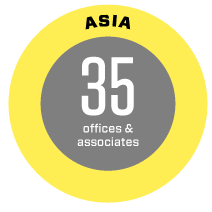
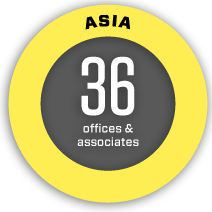
Updated global & APAC footprint

diff --git a/js/global.js b/js/global.js
@@ -3867,10 +3867,10 @@ function initLeadershipDrag(){
 				currentPos = parseInt($('.leadershipWrapper .leadershipContainer').css('left'));
 				if (direction == "left")
 				{
-					if(currentPos < -445)
+					if(currentPos < -375)
 					{
-						$('.leadershipWrapper .leadershipContainer').css('left', -452);
-						$('.leadershipDrag').css('left', 382);
+						$('.leadershipWrapper .leadershipContainer').css('left', -375);
+						$('.leadershipDrag').css('left', 313);
 					}else{
 						$('.leadershipWrapper .leadershipContainer').css('left', currentPos+distance*(speed/duration)*-1);
 						$('.leadershipDrag').css('left', (currentPos*-1)/452*382);
@@ -3895,9 +3895,9 @@ function initLeadershipDrag(){
 				if(parseInt($('.leadershipWrapper .leadershipContainer').css('left')) > 0 )
 				{
 					$('.leadershipWrapper .leadershipContainer').animate({'left':0}, 50);
-				}else if(parseInt($('.leadershipWrapper .leadershipContainer').css('left')) < -451 )
+				}else if(parseInt($('.leadershipWrapper .leadershipContainer').css('left')) < -375 )
 				{
-					$('.leadershipWrapper .leadershipContainer').animate({'left':-451}, 50)
+					$('.leadershipWrapper .leadershipContainer').animate({'left':-375}, 50)
 				}
 				
 			}
@@ -3906,9 +3906,9 @@ function initLeadershipDrag(){
 				if(parseInt($('.leadershipWrapper .leadershipContainer').css('left')) > 0 )
 				{
 					$('.leadershipWrapper .leadershipContainer').animate({'left':0}, 50);
-				}else if(parseInt($('.leadershipWrapper .leadershipContainer').css('left')) < -451 )
+				}else if(parseInt($('.leadershipWrapper .leadershipContainer').css('left')) < -375 )
 				{
-					$('.leadershipWrapper .leadershipContainer').animate({'left':-451}, 50)
+					$('.leadershipWrapper .leadershipContainer').animate({'left':-375}, 50)
 				}
 			}
 		},threshold:0,triggerOnTouchEnd : true,excludedElements:"button, input, select, textarea, .noSwipe"});
@@ -3920,7 +3920,7 @@ function initLeadershipDrag(){
 			}else
 				$('.btnLeadershipPrev').css('display', 'block');
 			
-			if(parseInt($('.leadershipContainer').css('left')) <= -450)
+			if(parseInt($('.leadershipContainer').css('left')) <= -375)
 			{
 				$('.btnLeadershipNext').css('display', 'none');
 			}else
@@ -3952,7 +3952,7 @@ function initLeadershipDrag(){
 		})
 		
 		$('.leadershipWrapper .btnLeadershipNext').click(function(){
-			if(parseInt($('.leadershipContainer').css('left')) > -452)
+			if(parseInt($('.leadershipContainer').css('left')) > -375)
 			{
 				var nextLeft = parseInt($('.leadershipContainer').css('left'))-190;
 				if(nextLeft <= -450){

diff --git a/where-we-play/apac-footprint.html b/where-we-play/apac-footprint.html
@@ -65,7 +65,7 @@
 										<li>Brisbane</li>
 										<li>Canberra</li>
 										<li class="redBullet">Gold Coast</li>
-										<li><a href="apac-footprint-city-guide/melbourne.html">Melbourne (3)</a></li>
+										<li><a href="apac-footprint-city-guide/melbourne.html">Melbourne (2)</a></li>
 										<li>Perth</li>
 										<li>Sunshine Coast</li>
 										<li><a href="apac-footprint-city-guide/sydney.html">Sydney (3)</a></li>
@@ -94,7 +94,7 @@
 								</div>
 								<div> <span class="countryTitle">THE PHILIPPINES</span>
 									<ul>
-										<li class="redBullet">Manila</li>
+										<li class="redBullet"><a href="apac-footprint-city-guide/manila.html">Manila</a></li>
 									</ul>
 								</div>
 								<div> <span class="countryTitle">MALAYSIA</span>
@@ -102,7 +102,12 @@
 										<li class="redBullet">Kuala Lumpur</li>
 									</ul>
 								</div>
-								<div> <span class="countryTitle">HONGKONG</span>
+								<div> <span class="countryTitle">MYANMAR</span>
+									<ul>
+										<li>Myanmar</li>
+									</ul>
+								</div>
+								<div> <span class="countryTitle">HONG KONG</span>
 									<ul>
 										<li><a href="apac-footprint-city-guide/hk.html">Central (2)</a></li>
 										<li>Discovery Bay</li>
@@ -149,11 +154,11 @@
 								</div>
 								<div> <span class="countryTitle">INDIA</span>
 									<ul>
-										<li class="redBullet">Bangalore</li>
-										<li class="redBullet">Chennai</li>
-										<li class="redBullet">Delhi</li>
-										<li class="redBullet">Mumbai (2)</li>
-										<li class="redBullet">Pune</li>
+										<li class="redBullet"><a href="apac-footprint-city-guide/india/clustering.html">Bangalore</a></li>
+										<li class="redBullet"><a href="apac-footprint-city-guide/india/clustering.html">Chennai</a></li>
+										<li class="redBullet"><a href="apac-footprint-city-guide/india/clustering.html">Delhi</a></li>
+										<li class="redBullet"><a href="apac-footprint-city-guide/india/clustering.html">Mumbai (2)</a></li>
+										<li class="redBullet"><a href="apac-footprint-city-guide/india/clustering.html">Pune</a></li>
 									</ul>
 								</div>
 							</div>

diff --git a/where-we-play/global-footprint.html b/where-we-play/global-footprint.html
@@ -260,24 +260,24 @@
 						<div class="countryContent clearfix">
 							<table cellpadding="0" cellspacing="0" border="0" width="" class="countryContentTable floatLeft">
 								<tr>
-									<td><a href="america-footprint-city-guide/new-york.html">Atlanta</a></td>
+									<td>Atlanta</td>
 								</tr>
 								<tr>
-									<td><a href="america-footprint-city-guide/boston.html">Boston</a></td>
+									<td>Boston</td>
 								</tr>
 								<tr>
-									<td><a href="america-footprint-city-guide/chicago.html">Chicago</a></td>
+									<td>Chicago</td>
 								</tr>
 								<tr>
-									<td><a href="america-footprint-city-guide/washington-dc.html">Washington, DC</a></td>
+									<td>Washington, DC</td>
 								</tr>
 							</table>
 							<table cellpadding="0" cellspacing="0" border="0" width="" class="countryContentTable floatLeft">
 								<tr>
-									<td><a href="america-footprint-city-guide/los-angeles.html">Los Angeles</a></td>
+									<td>Los Angeles</td>
 								</tr>
 								<tr>
-									<td><a href="america-footprint-city-guide/new-york.html">New York</a></td>
+									<td>New York</td>
 								</tr>
 								<tr>
 									<td>Newport</td>

diff --git a/who-we-are/savills-by-numbers/property-managed.html b/who-we-are/savills-by-numbers/property-managed.html
@@ -134,6 +134,7 @@
     -moz-animation-duration:50ms;
     animation-duration:50ms;
 }
+
 @-webkit-keyframes showUp2 { from {opacity:0.2;} to {opacity:1;} }
 @-moz-keyframes showUp2 { from {opacity:0.2;} to {opacity:1;} }
 @keyframes showUp2 { from {opacity:0.2;} to {opacity:1;} }
@@ -554,6 +555,9 @@
     -webkit-animation-duration:50ms;
     -moz-animation-duration:50ms;
     animation-duration:50ms;
+}
+.no-cssanimations .showUp,.no-cssanimations .showUp1,.no-cssanimations .showUp2,.no-cssanimations .showUp3,.no-cssanimations .showUp4,.no-cssanimations .showUp5,.no-cssanimations .showUp6,.no-cssanimations .showUp7,.no-cssanimations .showUp8,.no-cssanimations .showUp9,.no-cssanimations .showUp10,.no-cssanimations .showUp11,.no-cssanimations .showUp12,.no-cssanimations .showUp13,.no-cssanimations .showUp14,.no-cssanimations .showUp15,.no-cssanimations .showUp16,.no-cssanimations .showUp17,.no-cssanimations .showUp18,.no-cssanimations .showUp19,.no-cssanimations .showUp20,.no-cssanimations .showUp21{
+	opacity:1!important;	
 }
 </style>
 <body id="page-id-8">

diff --git a/our-research/benchmarking.html b/our-research/benchmarking.html
@@ -23,7 +23,7 @@
 	</script>
   <div class="mainContent withBreadcumb">
     <div class="fullWidthContentContainer benchmarkingContentContainer">
-    <div class="introHeadline" style="margin-bottom:30px">Aliqui utas ut litiam fugitatus dolorum eaquam re, tem lit persperunt, andandisqui quae nes dem esequis cipsunto to occupta temquo que nonsequae nectia a dem. </div>
+    <div class="introHeadline" style="margin-bottom:30px">Benchmarking is increasingly recognised as having a critical role to play in the development of corporate real estate strategy. In this section, the Savills Research Team provides readers with the benchmarking indices for various cities in Asia Pacific.</div>
       <div class="benchmarkingSectionContainer">
         <h2 class="benchmarkingSectionTitle">Office<span class="open">open</span></h2>
         <div class="benchmarkingSectionContent">

diff --git a/who-we-are/savills-by-numbers/revenue-breakdown.html b/who-we-are/savills-by-numbers/revenue-breakdown.html
@@ -104,6 +104,9 @@
     -moz-animation-duration:200ms;
     animation-duration:200ms;
 }
+.no-cssanimations .showUp,.no-cssanimations .showUp1,.no-cssanimations .showUp2,.no-cssanimations .showUp3,.no-cssanimations .showUp4,.no-cssanimations .showUp5,.no-cssanimations .showUp6,.no-cssanimations .showUp7,.no-cssanimations .showUp8,.no-cssanimations .showUp9,.no-cssanimations .showUp10,.no-cssanimations .showUp11,.no-cssanimations .showUp12,.no-cssanimations .showUp13,.no-cssanimations .showUp14,.no-cssanimations .showUp15,.no-cssanimations .showUp16,.no-cssanimations .showUp17,.no-cssanimations .showUp18,.no-cssanimations .showUp19,.no-cssanimations .showUp20,.no-cssanimations .showUp21{
+	 opacity:1;
+}
 .container{position:absolute; top:130px; right:154px;}
 h1{
 font-family: "Noto Sans", "Helvetica Neue", Helvetica, arial, sans-serif;

diff --git a/who-we-are/savills-by-numbers/number-of-employees.html b/who-we-are/savills-by-numbers/number-of-employees.html
@@ -596,6 +596,9 @@
     -moz-animation-duration:50ms;
     animation-duration:50ms;
 }
+.no-cssanimations .showUp,.no-cssanimations .showUp1,.no-cssanimations .showUp2,.no-cssanimations .showUp3,.no-cssanimations .showUp4,.no-cssanimations .showUp5,.no-cssanimations .showUp6,.no-cssanimations .showUp7,.no-cssanimations .showUp8,.no-cssanimations .showUp9,.no-cssanimations .showUp10,.no-cssanimations .showUp11,.no-cssanimations .showUp12,.no-cssanimations .showUp13,.no-cssanimations .showUp14,.no-cssanimations .showUp15,.no-cssanimations .showUp16,.no-cssanimations .showUp17,.no-cssanimations .showUp18,.no-cssanimations .showUp19,.no-cssanimations .showUp20,.no-cssanimations .showUp21,.no-cssanimations .showUp22{
+	 opacity:1;
+}
 </style>
 <body id="page-id-11">
 <div id="mainContainer">

diff --git a/who-we-are/savills-by-numbers/leasing-apac.html b/who-we-are/savills-by-numbers/leasing-apac.html
@@ -328,6 +328,9 @@
     -moz-animation-duration:50ms;
     animation-duration:50ms;
 }
+.no-cssanimations .showUp,.no-cssanimations .showUp1,.no-cssanimations .showUp2,.no-cssanimations .showUp3,.no-cssanimations .showUp4,.no-cssanimations .showUp5,.no-cssanimations .showUp6,.no-cssanimations .showUp7,.no-cssanimations .showUp8,.no-cssanimations .showUp9,.no-cssanimations .showUp10,.no-cssanimations .showUp11,.no-cssanimations .showUp12,.no-cssanimations .showUp13,.no-cssanimations .showUp14,.no-cssanimations .showUp15,.no-cssanimations .showUp16,.no-cssanimations .showUp17,.no-cssanimations .showUp18,.no-cssanimations .showUp19,.no-cssanimations .showUp20,.no-cssanimations .showUp21{
+	 opacity:1;
+}
 </style>
 <body id="page-id-237">
 <div id="mainContainer">

diff --git a/who-we-are/savills-by-numbers/property-and-facilities-management.html b/who-we-are/savills-by-numbers/property-and-facilities-management.html
@@ -622,6 +622,9 @@
     -moz-animation-duration:50ms;
     animation-duration:50ms;
 }
+.no-cssanimations .showUp,.no-cssanimations .showUp1,.no-cssanimations .showUp2,.no-cssanimations .showUp3,.no-cssanimations .showUp4,.no-cssanimations .showUp5,.no-cssanimations .showUp6,.no-cssanimations .showUp7,.no-cssanimations .showUp8,.no-cssanimations .showUp9,.no-cssanimations .showUp10,.no-cssanimations .showUp11,.no-cssanimations .showUp12,.no-cssanimations .showUp13,.no-cssanimations .showUp14,.no-cssanimations .showUp15,.no-cssanimations .showUp16,.no-cssanimations .showUp17,.no-cssanimations .showUp18,.no-cssanimations .showUp19,.no-cssanimations .showUp20,.no-cssanimations .showUp21{
+	 opacity:1;
+}
 </style>
 <body id="page-id-10">
 <div id="mainContainer">

diff --git a/css/global.css b/css/global.css
@@ -915,6 +915,9 @@ body.footprint-map #leftNavPanel{width:275px;}
 .choiceOfViewContainer .btn_list_view:hover, .choiceOfViewContainer .btn_list_view.active {
     background-position: 0 -48px;
 }
+
+.no-csstransitions .fadeIn{opacity:1!important;}
+
 .ourTeamLogoContent{width:742px; position:relative; height:704px; padding-left:10px; float:left;}
 .ourTeamLogoContent .personItem{display:block; float:left; cursor:pointer; /*height: 141px;width: 110px;*/ margin:0 0 5px 5px; position:relative; width:115px; height:165px;}
 .ourTeamLogoContent .personItem .showMoveDiv{display:none;}

diff --git a/who-we-are/savills-by-numbers/project-management.html b/who-we-are/savills-by-numbers/project-management.html
@@ -412,6 +412,9 @@
     -moz-animation-duration:50ms;
     animation-duration:50ms;
 }
+.no-cssanimations .showUp10,.no-cssanimations .showUp11,.no-cssanimations .showUp12,.no-cssanimations .showUp13,.no-cssanimations .showUp14,.no-cssanimations .showUp15,.no-cssanimations .showUp16,.no-cssanimations .showUp17,.no-cssanimations .showUp18,.no-cssanimations .showUp19,.no-cssanimations .showUp20,.no-cssanimations .showUp21 {
+	 opacity:1;
+}
 </style>
 <body id="page-id-236">
 <div id="mainContainer">

diff --git a/our-services/project-management-os/leadership-pm.html b/our-services/project-management-os/leadership-pm.html
@@ -156,7 +156,7 @@ pageContactArray = [{contactPersonImg:"images/ourTeam/james sherrard_overlay.png
 						</div>
 					</div>
 				</div>
-				<div class="leadershipTrack">
+				<div class="leadershipTrack" style="width:620px;">
 					<div class="leadershipDrag"></div>
 				</div>
 			</div>
